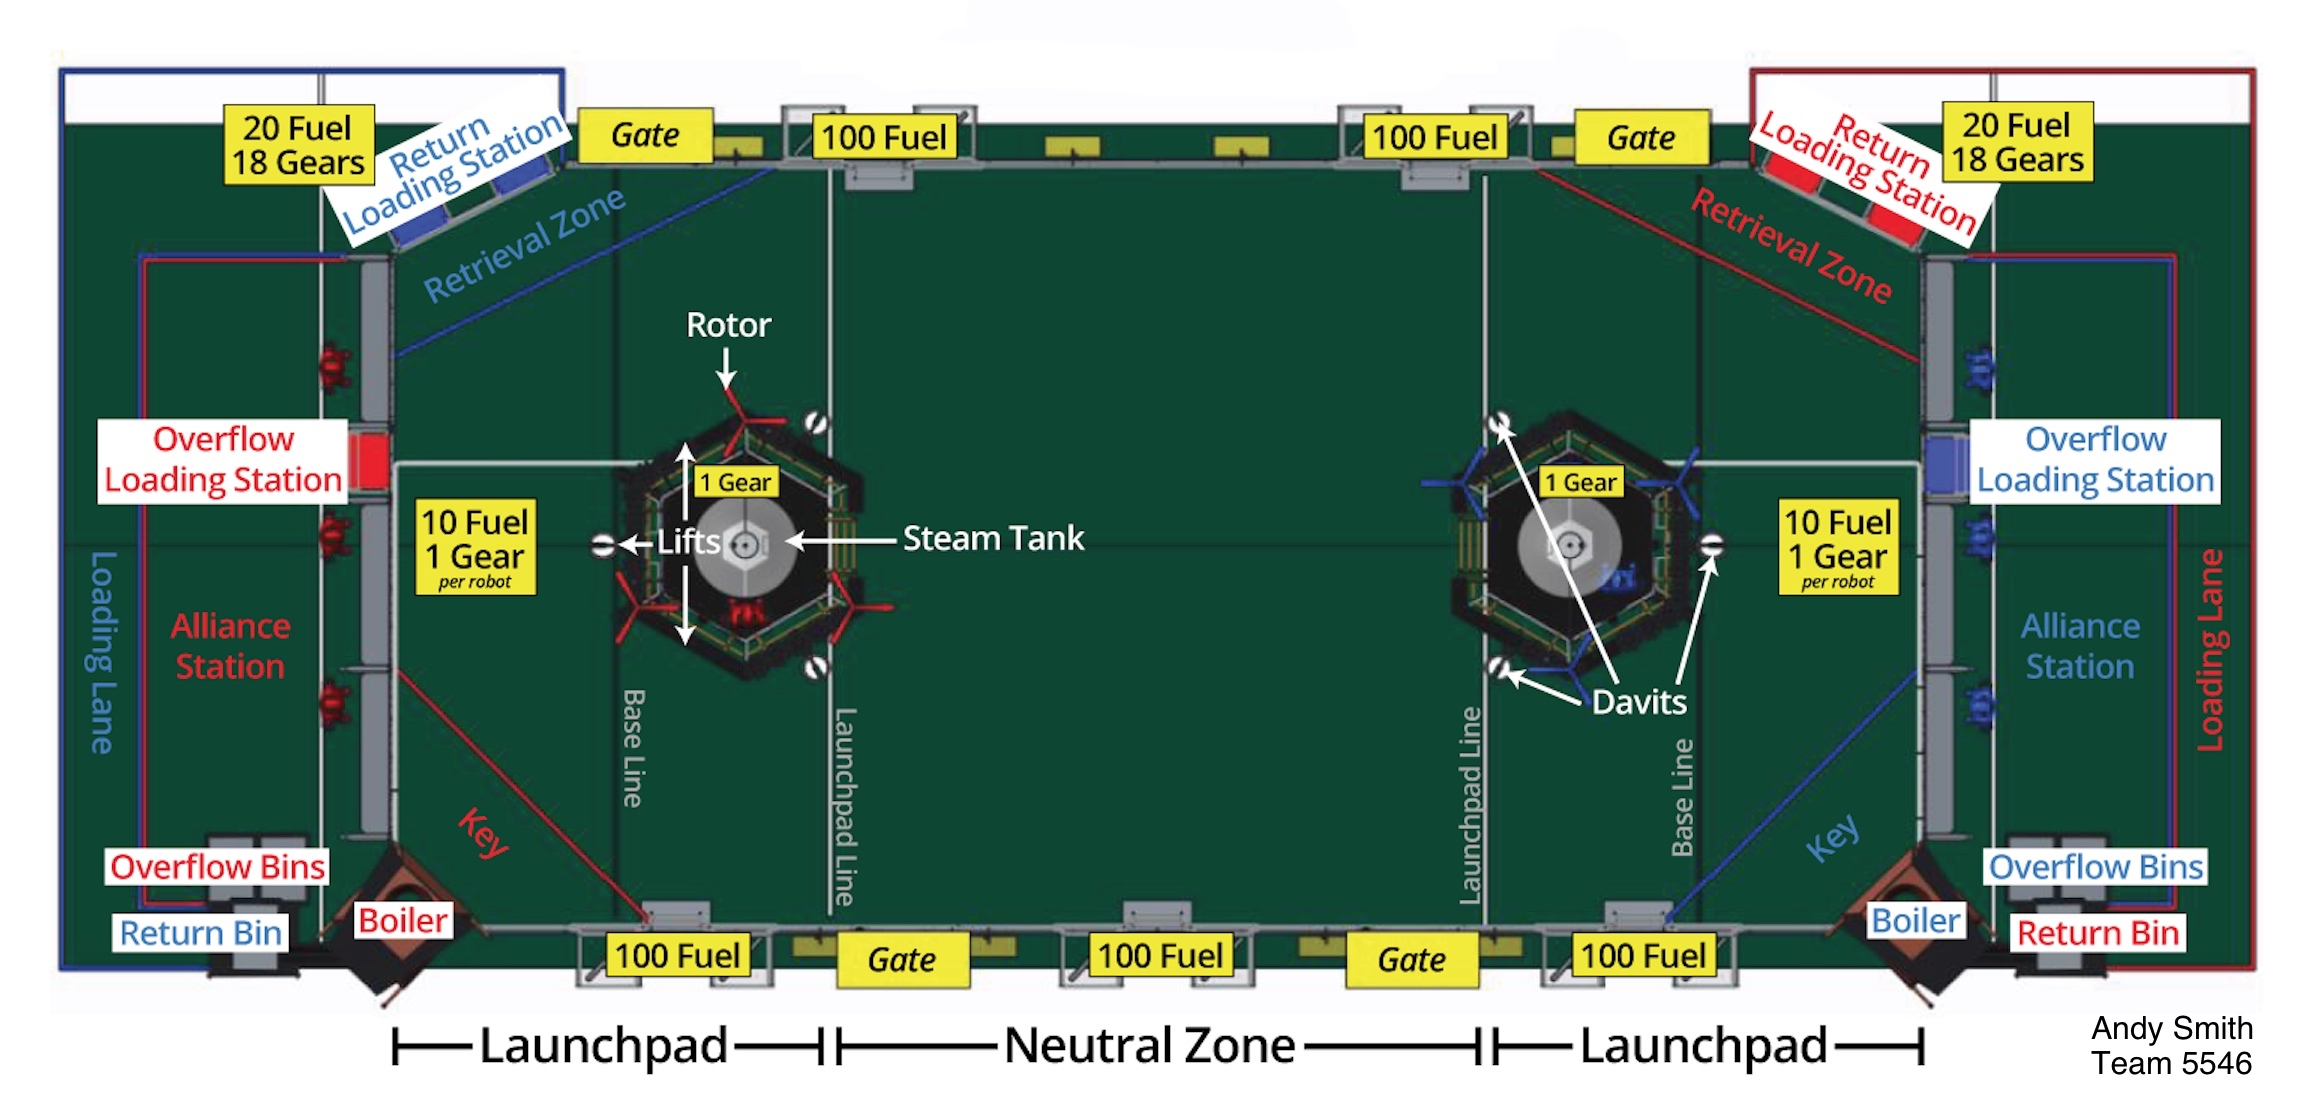
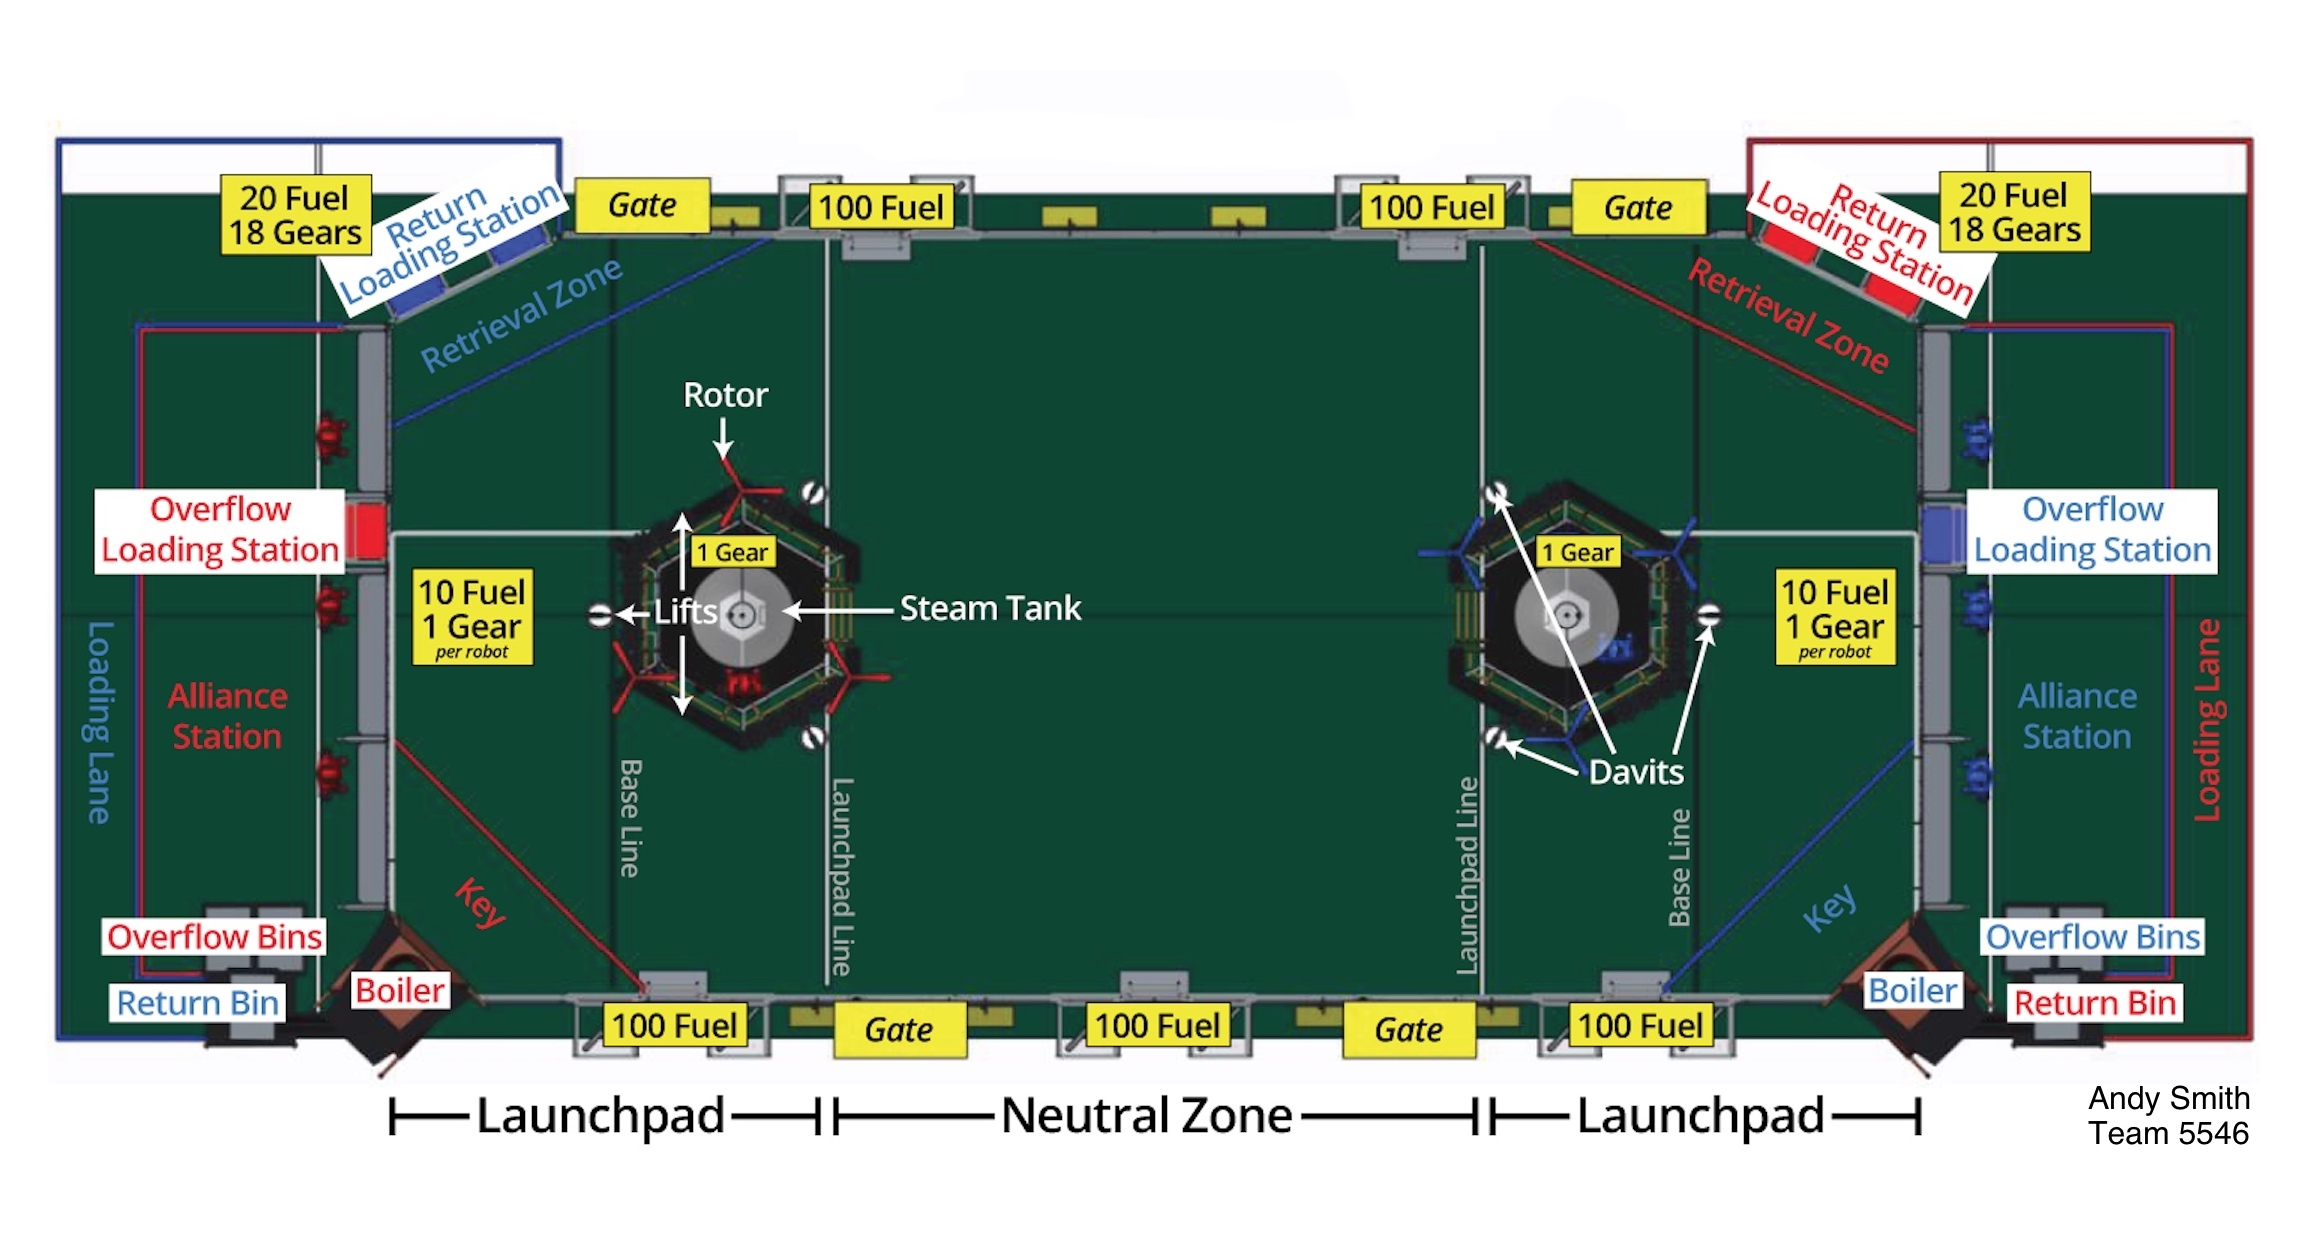
went with bigger img instead of dynamic margine

Changed region(s): [[0.0, 0.0613, 0.9878, 0.9802]]

diff --git a/index.html b/index.html
@@ -20,7 +20,7 @@
     <title>Score Sheet</title>
     <link href="inc/bootstrap/bootstrap.css" rel="stylesheet">
     <link href="inc/sweetalert/sweetalert.css" rel="stylesheet">
-    <link href="css/app.v110.css" rel="stylesheet">
+    <link href="css/app.v111.css" rel="stylesheet">
 </head>
 <body>
     <div id="first-steamworks">
@@ -148,7 +148,7 @@
             </div>
         </div>
         <div id="footer">
-            <div style="float: right">v.1.1.0</div>
+            <div style="float: right">v.1.1.1</div>
             <div>STEAMworks Score Sheet</div>
         </div>
     </div>
@@ -160,7 +160,7 @@
     <script src="inc/bootstrap/bootstrap.js"></script>
     <script src="inc/fastclick/fastclick.js"></script>
     <script src="inc/sweetalert/sweetalert.js"></script>
-    <script src="js/app.v110.js"></script>
+    <script src="js/app.v111.js"></script>
     <script>
         (function(i,s,o,g,r,a,m){i['GoogleAnalyticsObject']=r;i[r]=i[r]||function(){
             (i[r].q=i[r].q||[]).push(arguments)},i[r].l=1*new Date();a=s.createElement(o),

diff --git a/js/app.v111.js b/js/app.v111.js
@@ -133,12 +133,9 @@
         $(window).resize(function(){
             var height = $(window).height();
             var width = $(window).width();
-            var gamemap = $('#game-map').height();
-            var margin = ((height - gamemap) / 2);
             if (width > height) {
                 $('.portrait').addClass('hidden');
                 $('.landscape').removeClass('hidden');
-                $('#game-map').css('margin-top', margin);
             } else {
                 $('.landscape').addClass('hidden');
                 $('.portrait').removeClass('hidden');

diff --git a/css/app.v111.css b/css/app.v111.css
@@ -104,12 +104,9 @@ input[type="text"]:disabled{
   -o-transition: none !important;
   transition: none !important;
 }
-.landscape {
-    vertical-align: middle;
-}
 #game-map {
     width: 100%;
-    vertical-align: middle;
+    height: 100%
 }
 @media (max-width: 321px) {
     #qualifications, #eliminations, #reset {
